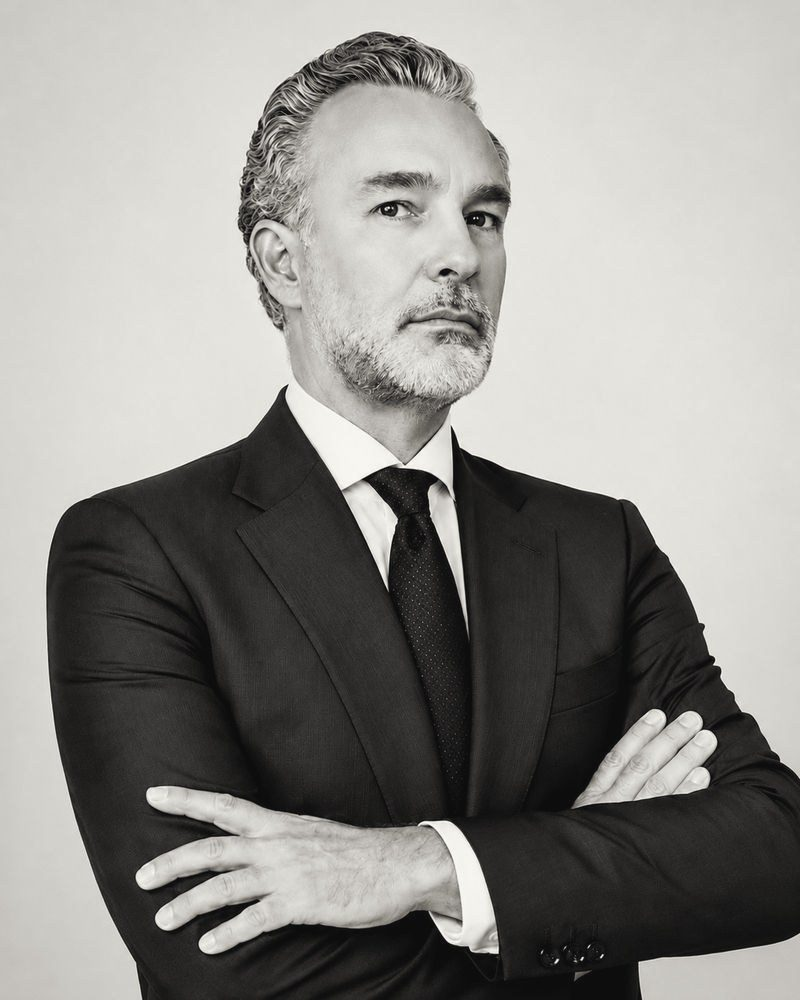
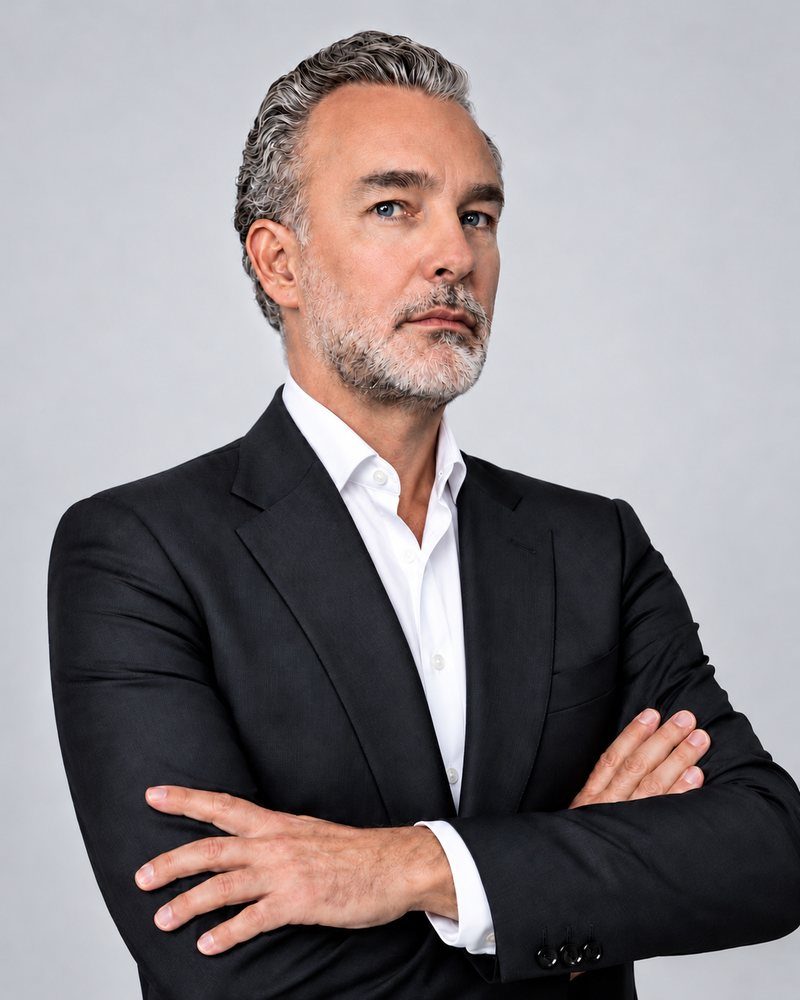
Portrait : nouvelle photo sans cravate, en couleur
Remplace portrait.jpg et retire le filtre noir et blanc du portrait (FR et EN).

Claude-Session: https://claude.ai/code/session_01BPvEPkNq7bTN7pJCqDdQnw

diff --git a/en/index.html b/en/index.html
@@ -224,7 +224,7 @@ h1,h2,h3,h4{margin:0;font-weight:300;line-height:1.1;letter-spacing:-0.01em;text
 .twelve{display:grid;grid-template-columns:repeat(12,minmax(0,1fr));column-gap:24px}
 .conviction .twelve{align-items:center}
 .portrait{grid-column:span 4;overflow:hidden;aspect-ratio:4/5;background:#e9e9e9;max-width:100%}
-.portrait img{width:100%;height:100%;object-fit:cover;object-position:50% 18%;filter:grayscale(1)}
+.portrait img{width:100%;height:100%;object-fit:cover;object-position:50% 18%}
 .quote{grid-column:6 / span 7;display:flex;flex-direction:column;gap:28px;margin:0}
 .quote blockquote{margin:0;font-size:clamp(24px,2.3vw,32px);line-height:1.4;font-weight:300}
 .quote cite{font-style:normal;font-size:16px;color:var(--ink-2)}

diff --git a/index.html b/index.html
@@ -224,7 +224,7 @@ h1,h2,h3,h4{margin:0;font-weight:300;line-height:1.1;letter-spacing:-0.01em;text
 .twelve{display:grid;grid-template-columns:repeat(12,minmax(0,1fr));column-gap:24px}
 .conviction .twelve{align-items:center}
 .portrait{grid-column:span 4;overflow:hidden;aspect-ratio:4/5;background:#e9e9e9;max-width:100%}
-.portrait img{width:100%;height:100%;object-fit:cover;object-position:50% 18%;filter:grayscale(1)}
+.portrait img{width:100%;height:100%;object-fit:cover;object-position:50% 18%}
 .quote{grid-column:6 / span 7;display:flex;flex-direction:column;gap:28px;margin:0}
 .quote blockquote{margin:0;font-size:clamp(24px,2.3vw,32px);line-height:1.4;font-weight:300}
 .quote cite{font-style:normal;font-size:16px;color:var(--ink-2)}
